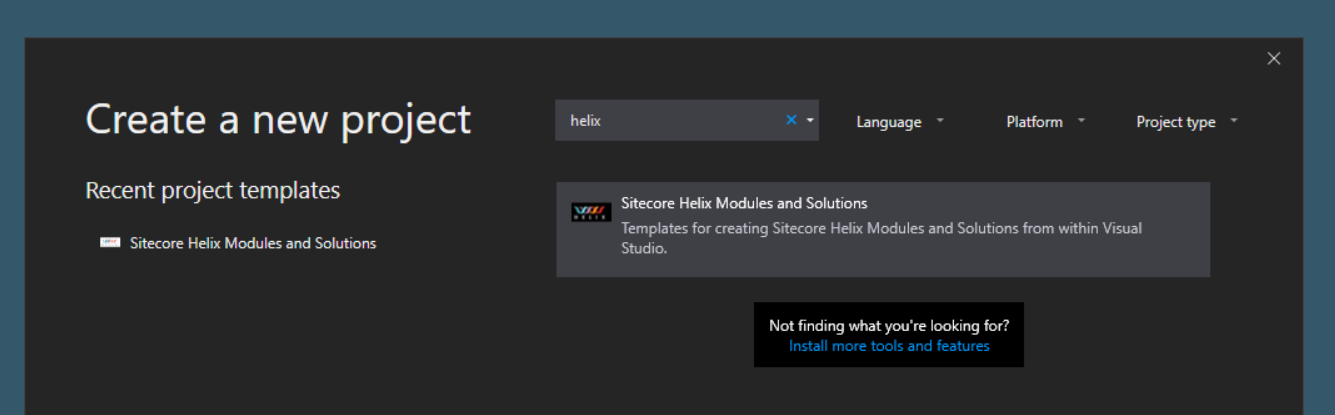
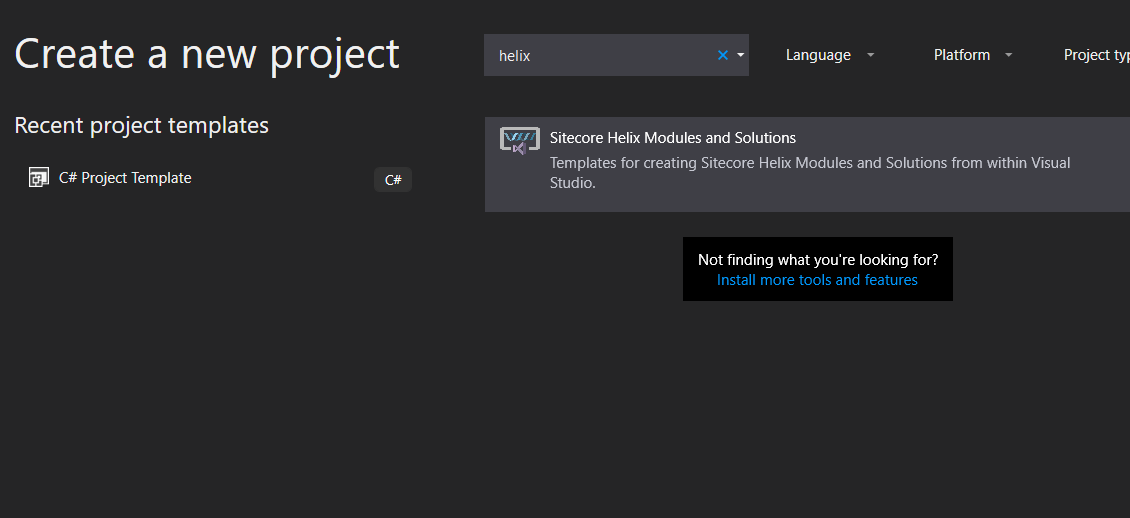
updated readme.md for release

diff --git a/README.md b/README.md
@@ -1,11 +1,25 @@
 # Sitecore Helix Module & Solution Templates for VisualStudio
 
+<img alt="Sitecore Helix Visual Studio Extensions Logo" src="Logo/vs.helix.2.png" width="200">
+
 Visual Studio extension that accelerates creating new Visual Studio solutions and projects that follow the conventions described in Sitecore Helix.
 
 **[Install extension from Visual Studio Marketplace](https://marketplace.visualstudio.com/items?itemName=AndersLaublaubplusco.SitecoreHelixVisualStudioTemplates)**
 
 ## Change log  
+_2019-04-26 v0.9.9.12_
 
+- UI changes
+  - Colors etc. now follow VS selected theme
+  - Dialogs updated
+  - New icons
+  - New logo
+- Trace window added to ease debugging templates
+- Example templates
+  - Bug fix: .user file not being loaded.
+  - Change: renamed .props files to Website.* to reflect publish target instance role
+- Added tags for VS 2019 Create dialog, not supported yet in VS2019 but should be soon.
+---
 _2019-04-10 v0.9.9.10_
 
 - Added Visual Studio 2019 support
@@ -17,7 +31,9 @@ _2019-04-10 v0.9.9.10_
 - SkipAttach paths in manifest
   - enables setting up templates that include TDS projects
 
-More to come..
+---
+
+### Please submit bugs, ideas and enhancement suggestions using [Issues](https://github.com/LaubPlusCo/LaubPlusCo.Helix.VsTemplates/issues/)
 
 ## Installation
 
@@ -47,17 +63,31 @@ Using the template for the first time you will be asked to select a root directo
 
 ![Install default example templates](Docs/Images/install-built-in.png)
 
-**New:** To keep your module templates under Source control you can add a folder in your repo root. The extension will automatically detect the folder and write a .helixtemplates configuration file with the relative folder path.
+**New:** To keep your module templates under Source control you can add a solution-scope templates folder in your repo root. The extension will automatically try to detect if a folder exist and write a .helixtemplates configuration file with the relative folder path.
 
-![Relative module templates folder](Docs/Images/relative-module-folder-support.png)
+![Relative module templates folder](Docs/Images/relative-module-folder-support.png)  
+
+**New:** The extension will ask if you like to create a solution-scope module templates folder if none exist already. You can also manually create the folder or use the global-scope templates folder for modules.  
+
+![Module template folder auto-create](Docs/Images/relative-module-folder-autocreate.png)  
 
 When selecting File > New Project the extension will presume that you are creating a new solution and filter the available templates so only solution templates are shown.
 
+![Creating a new module](Docs/Images/create-new.png)
+
 To add a new module click Add New project in the solution explorer. Note that you do not have to right-click the location you want the module placed. It is the template folder structure that dictates where the module is placed.
 
-![Creating a new module](Docs/Images/create-new-feature.png)
+![Creating a new module](Docs/Images/create-new-module.png)
 
 Always select the solution root folder when creating new modules. The template folder structure ensures that the module is placed correctly and will generate any missing folders.
+
+## Debugging Templates
+
+You can use the new trace window to debug your templates.  
+
+![Creating a new module](Docs/Images/trace-window.png)  
+
+If a template is not being loaded, open the trace window and then reload the template selection combo box by opening and closing the settings dialog.  _Note, the trace window is always top-most and has to be closed manually after creation is done._
 
 ## Footnotes
 
